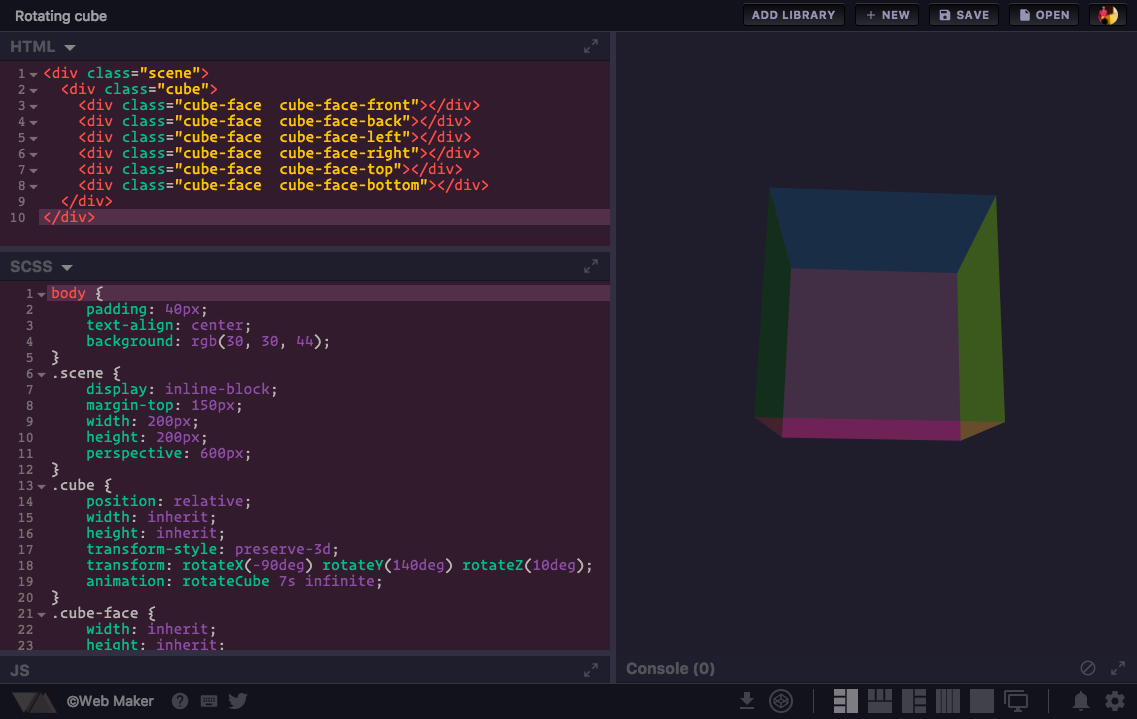
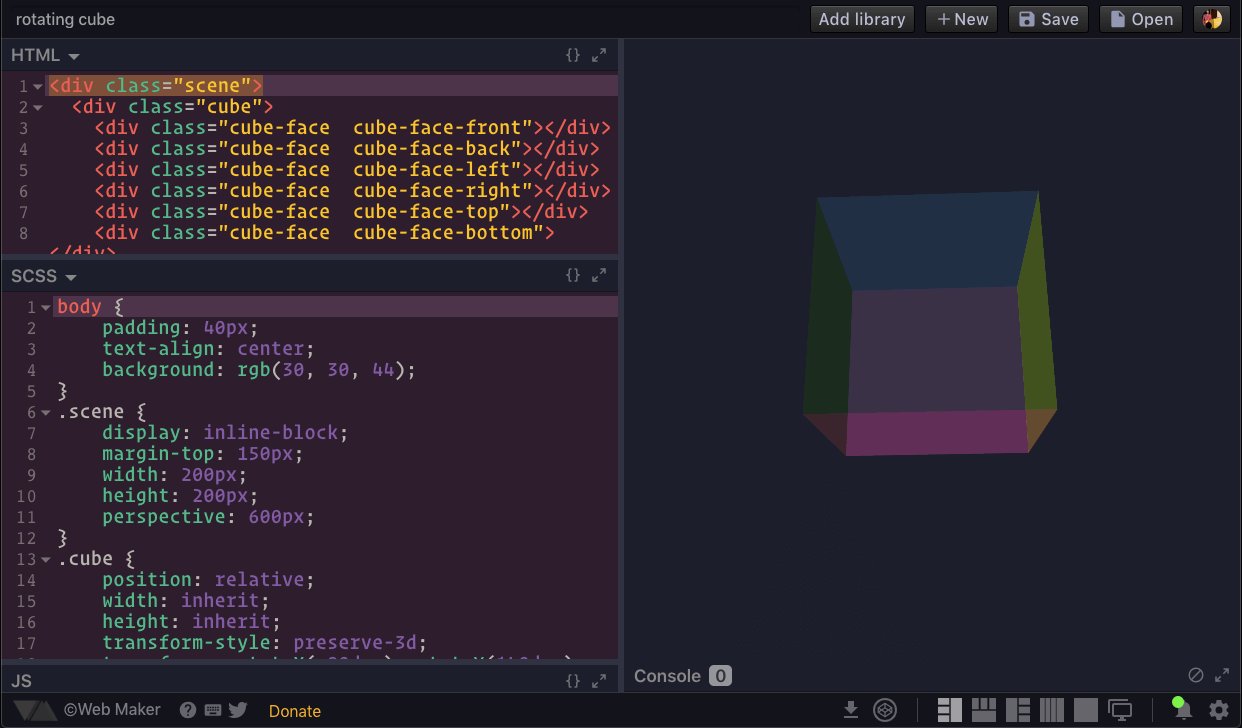
website: update screenshot

diff --git a/packages/website/_includes/default.html b/packages/website/_includes/default.html
@@ -17,9 +17,9 @@
 			property="og:description"
 			content="A blazing fast & offline web playground"
 		/>
-		<meta property="og:image" content="https://webmaker.app/ss1.png" />
-		<link rel="image_src" href="/images/ss1.png?v3.0.0" />
-		<meta name="twitter:image" content="https://webmakerapp.com/ss1.png" />
+		<meta property="og:image" content="https://webmaker.app/images/ss1.png" />
+		<link rel="image_src" href="/images/ss1.png?v4" />
+		<meta name="twitter:image" content="https://webmaker.app/images/ss1.png" />
 		<meta name="twitter:card" content="summary_large_image" />
 		<link rel="icon" href="/images/icon-128.png" />
 
@@ -335,12 +335,13 @@
 				}
 
 				.logo {
-					width: 8em;
+					width: 6em;
 					height: auto;
 				}
 
 				.screenshot {
-					height: 35vh;
+					height: 55vh;
+					max-width: initial;
 				}
 
 				.web-app-btn:after {
@@ -466,7 +467,7 @@
 					<a
 						class="hint--top-right ml-1"
 						data-hint="Share on Twitter"
-						href="https://twitter.com/share?url=https://webmakerapp.com/&text=Web Maker - A blazing fast %26 offline web playground!&via=webmakerApp&related=webmakerApp"
+						href="https://twitter.com/share?url=https://webmaker.app/&text=Web Maker - A blazing fast %26 offline web playground!&via=webmakerApp&related=webmakerApp"
 						target="_blank"
 						class="tweet-link"
 						>Share</a
@@ -476,7 +477,7 @@
 			<div style="margin-top:30px;">
 				<img
 					class="screenshot"
-					src="images/ss1.png?v3.0.0beta"
+					src="images/ss1.png?v4"
 					height=""
 					alt="Web Maker working screen"
 				/>
